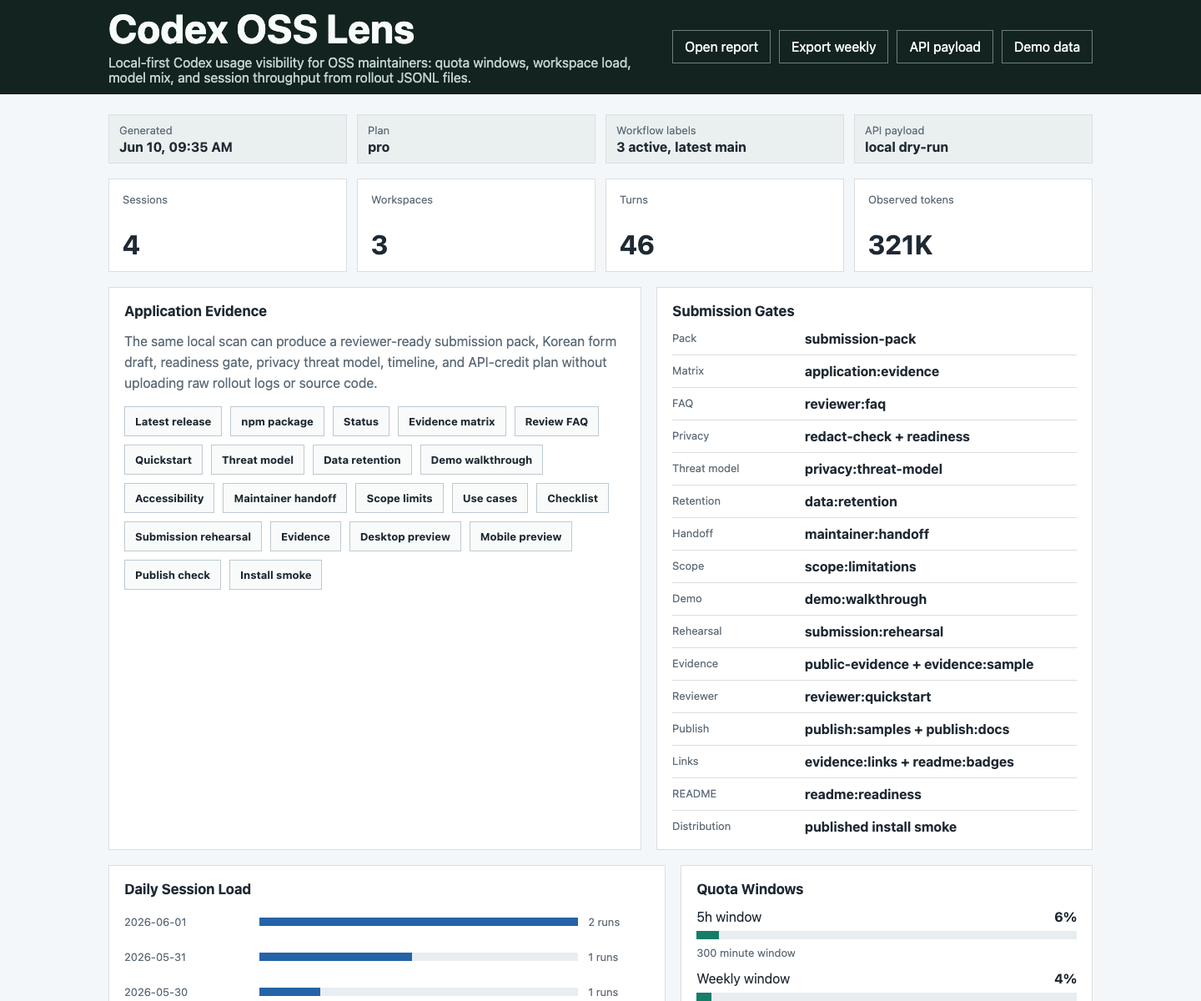
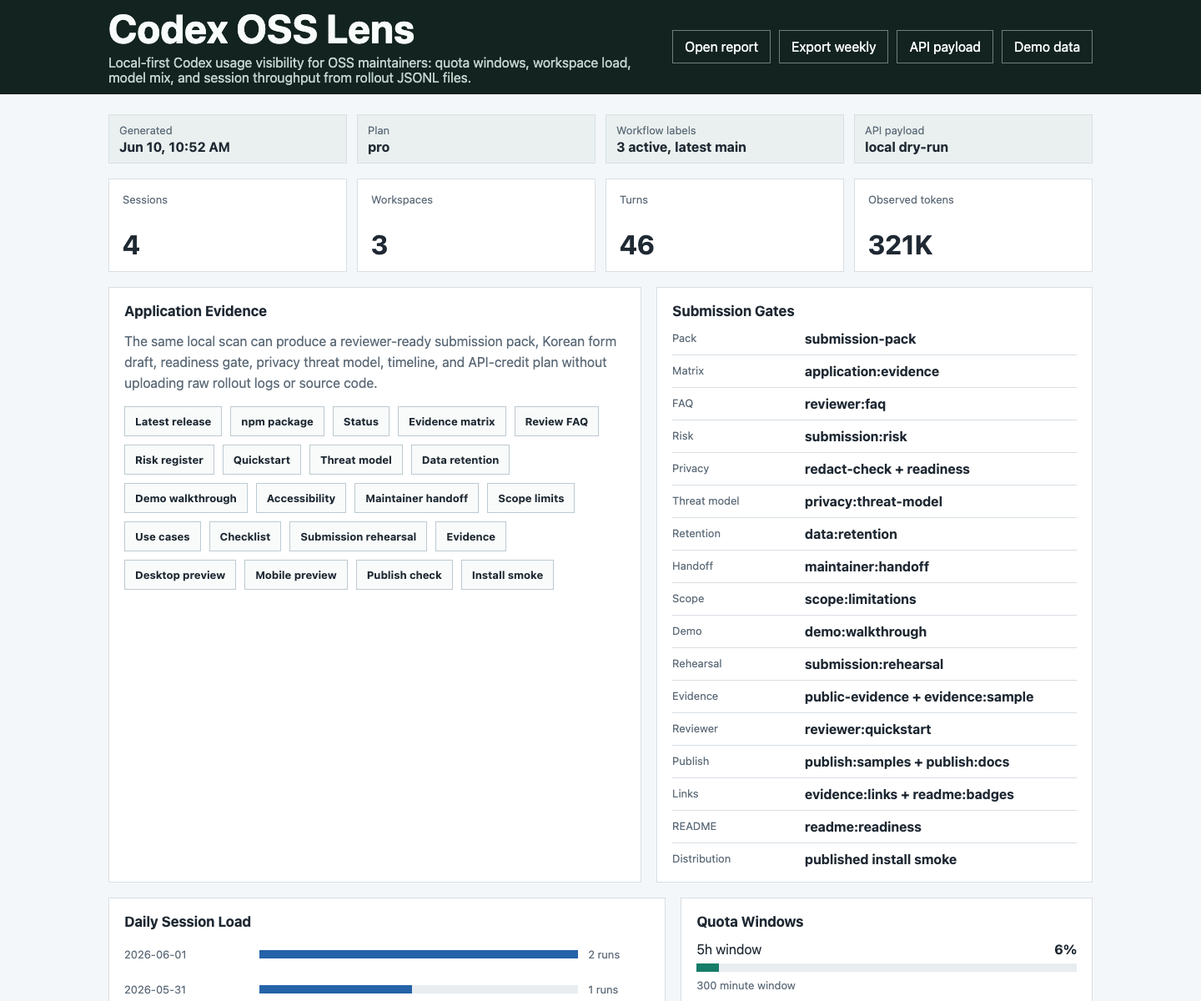
Make submission risks reviewable
Application readiness is stronger when reviewers can see the known risks instead of inferring them from scattered docs. This change adds a public submission risk register with mitigations, local gates, and submit-time stop conditions, then wires it through public evidence, form drafts, dashboard evidence, README guidance, and CI readiness checks.

Constraint: The project should acknowledge young-project, privacy, source-vs-published, manual-submit, API-scope, and link-rot risks without weakening the application narrative.
Constraint: Local 1Password SSH signing agent remains unreliable, so this automation commit is unsigned.
Rejected: Keep risk language only in the FAQ and scope docs | a dedicated register is easier for reviewers to audit and for CI to keep aligned.
Confidence: high
Scope-risk: moderate
Directive: Keep docs/submission-risk-register.md, submission:risk, public evidence links, dashboard evidence links, README guidance, and form-draft samples aligned whenever application risks, mitigations, or stop conditions change.
Tested: npm run submission:risk && npm run application:evidence && npm run dashboard:readiness && npm run evidence:sample && npm run form-draft:sample && npm run final-copy:check && npm run application:status && npm run reviewer:quickstart && npm run publish:docs && npm run readme:readiness && npm run ci:readiness && npm test && git diff --check
[…]

diff --git a/src/cli.js b/src/cli.js
@@ -182,6 +182,7 @@ async function main() {
         applicationStatusUrl: options.applicationStatusUrl,
         applicationEvidenceMatrixUrl: options.applicationEvidenceMatrixUrl,
         applicationReviewFaqUrl: options.applicationReviewFaqUrl,
+        submissionRiskRegisterUrl: options.submissionRiskRegisterUrl,
         reviewerQuickstartUrl: options.reviewerQuickstartUrl,
         releaseProvenanceUrl: options.releaseProvenanceUrl,
         adoptionPlanUrl: options.adoptionPlanUrl,
@@ -282,6 +283,7 @@ function parseArgs(args) {
     else if (arg === "--application-status-url") options.applicationStatusUrl = args[++i];
     else if (arg === "--application-evidence-matrix-url") options.applicationEvidenceMatrixUrl = args[++i];
     else if (arg === "--application-review-faq-url") options.applicationReviewFaqUrl = args[++i];
+    else if (arg === "--submission-risk-register-url") options.submissionRiskRegisterUrl = args[++i];
     else if (arg === "--reviewer-quickstart-url") options.reviewerQuickstartUrl = args[++i];
     else if (arg === "--release-provenance-url") options.releaseProvenanceUrl = args[++i];
     else if (arg === "--adoption-plan-url") options.adoptionPlanUrl = args[++i];
@@ -401,11 +403,11 @@ Usage:
   codex-oss-lens scorecard --manifest manifest.json [--readiness readiness.json] [--api-plan api-plan.json] [--timeline timeline.json] [--out scorecard.json] [--markdown scorecard.md]
   codex-oss-lens evidence-index --manifest manifest.json [--readiness readiness.json] [--api-plan api-plan.json] [--timeline timeline.json] [--scorecard scorecard.json] [--form-draft form-draft.json] [--out evidence-index.json] [--markdown evidence-index.md] [--html evidence-index.html]
   codex-oss-lens submission-pack [--codex-home ~/.codex] [--repo owner/name] [--out-dir codex-submission-pack] [--demo]
-  codex-oss-lens form-draft --manifest manifest.json [--readiness readiness.json] [--api-plan api-plan.json] [--scorecard scorecard.json] [--repo url] [--release-url url] [--npm-package url] [--roadmap-url url] [--application-status-url url] [--application-evidence-matrix-url url] [--application-review-faq-url url] [--reviewer-quickstart-url url] [--release-provenance-url url] [--adoption-plan-url url] [--maintenance-policy-url url] [--maintainer-handoff-url url] [--scope-limitations-url url] [--privacy-threat-model-url url] [--data-retention-url url] [--demo-walkthrough-url url] [--accessibility-url url] [--api-workflow-url url] [--use-cases-url url] [--final-checklist-url url] [--submission-rehearsal-url url] [--final-copy-url url] [--form-draft-sample-url url] [--public-evidence-sample-url url] [--dashboard-preview-url url] [--mobile-dashboard-preview-url url] [--publish-check-sample-url url] [--install-smoke-sample-url url] [--node-ci-url url] [--published-smoke-url url] [--out form-draft.json] [--markdown form-draft.md]
+  codex-oss-lens form-draft --manifest manifest.json [--readiness readiness.json] [--api-plan api-plan.json] [--scorecard scorecard.json] [--repo url] [--release-url url] [--npm-package url] [--roadmap-url url] [--application-status-url url] [--application-evidence-matrix-url url] [--application-review-faq-url url] [--submission-risk-register-url url] [--reviewer-quickstart-url url] [--release-provenance-url url] [--adoption-plan-url url] [--maintenance-policy-url url] [--maintainer-handoff-url url] [--scope-limitations-url url] [--privacy-threat-model-url url] [--data-retention-url url] [--demo-walkthrough-url url] [--accessibility-url url] [--api-workflow-url url] [--use-cases-url url] [--final-checklist-url url] [--submission-rehearsal-url url] [--final-copy-url url] [--form-draft-sample-url url] [--public-evidence-sample-url url] [--dashboard-preview-url url] [--mobile-dashboard-preview-url url] [--publish-check-sample-url url] [--install-smoke-sample-url url] [--node-ci-url url] [--published-smoke-url url] [--out form-draft.json] [--markdown form-draft.md]
   codex-oss-lens pack-validate <submission-pack-dir> [--min-score 75] [--out pack-validation.json] [--markdown pack-validation.md]
   codex-oss-lens publish-check [--package-json package.json] [--out publish-check.json] [--markdown publish-check.md]
   codex-oss-lens install-smoke [--package codex-oss-lens] [--version latest] [--bin codex-oss-lens] [--out install-smoke.json] [--markdown install-smoke.md]
-  codex-oss-lens public-evidence [--repo url] [--release-url url] [--npm-package url] [--roadmap-url url] [--application-status-url url] [--application-evidence-matrix-url url] [--application-review-faq-url url] [--reviewer-quickstart-url url] [--release-provenance-url url] [--adoption-plan-url url] [--maintenance-policy-url url] [--maintainer-handoff-url url] [--scope-limitations-url url] [--privacy-threat-model-url url] [--data-retention-url url] [--demo-walkthrough-url url] [--accessibility-url url] [--api-workflow-url url] [--use-cases-url url] [--final-checklist-url url] [--submission-rehearsal-url url] [--final-copy-url url] [--form-draft-sample-url url] [--public-evidence-sample-url url] [--dashboard-preview-url url] [--mobile-dashboard-preview-url url] [--publish-check-sample-url url] [--install-smoke-sample-url url] [--node-ci-url url] [--published-smoke-url url] [--out public-evidence.json] [--markdown public-evidence.md]
+  codex-oss-lens public-evidence [--repo url] [--release-url url] [--npm-package url] [--roadmap-url url] [--application-status-url url] [--application-evidence-matrix-url url] [--application-review-faq-url url] [--submission-risk-register-url url] [--reviewer-quickstart-url url] [--release-provenance-url url] [--adoption-plan-url url] [--maintenance-policy-url url] [--maintainer-handoff-url url] [--scope-limitations-url url] [--privacy-threat-model-url url] [--data-retention-url url] [--demo-walkthrough-url url] [--accessibility-url url] [--api-workflow-url url] [--use-cases-url url] [--final-checklist-url url] [--submission-rehearsal-url url] [--final-copy-url url] [--form-draft-sample-url url] [--public-evidence-sample-url url] [--dashboard-preview-url url] [--mobile-dashboard-preview-url url] [--publish-check-sample-url url] [--install-smoke-sample-url url] [--node-ci-url url] [--published-smoke-url url] [--out public-evidence.json] [--markdown public-evidence.md]
   codex-oss-lens serve [--codex-home ~/.codex] [--port 5057] [--demo]
   codex-oss-lens demo [--out report.json]
 

diff --git a/test/public-evidence.test.js b/test/public-evidence.test.js
@@ -15,6 +15,7 @@ test("builds public evidence with required links and manual fields", () => {
   assert.match(evidence.publicLinks.applicationStatusUrl, /docs\/application-status\.md$/);
   assert.match(evidence.publicLinks.applicationEvidenceMatrixUrl, /docs\/application-evidence-matrix\.md$/);
   assert.match(evidence.publicLinks.applicationReviewFaqUrl, /docs\/application-review-faq\.md$/);
+  assert.match(evidence.publicLinks.submissionRiskRegisterUrl, /docs\/submission-risk-register\.md$/);
   assert.match(evidence.publicLinks.reviewerQuickstartUrl, /docs\/reviewer-quickstart\.md$/);
   assert.match(evidence.publicLinks.releaseProvenanceUrl, /docs\/release-provenance\.md$/);
   assert.match(evidence.publicLinks.adoptionPlanUrl, /docs\/adoption-plan\.md$/);
@@ -30,6 +31,7 @@ test("builds public evidence with required links and manual fields", () => {
   assert.ok(evidence.proofPoints.some((item) => item.id === "applicationStatus"));
   assert.ok(evidence.proofPoints.some((item) => item.id === "applicationEvidenceMatrix"));
   assert.ok(evidence.proofPoints.some((item) => item.id === "applicationReviewFaq"));
+  assert.ok(evidence.proofPoints.some((item) => item.id === "submissionRiskRegister"));
   assert.ok(evidence.proofPoints.some((item) => item.id === "reviewerQuickstart"));
   assert.ok(evidence.proofPoints.some((item) => item.id === "releaseProvenance"));
   assert.ok(evidence.proofPoints.some((item) => item.id === "adoptionPlan"));
@@ -85,6 +87,8 @@ test("CLI accepts reviewer link overrides for public evidence", async () => {
     "https://github.com/example/project/blob/main/docs/application-evidence-matrix.md",
     "--application-review-faq-url",
     "https://github.com/example/project/blob/main/docs/application-review-faq.md",
+    "--submission-risk-register-url",
+    "https://github.com/example/project/blob/main/docs/submission-risk-register.md",
     "--reviewer-quickstart-url",
     "https://github.com/example/project/blob/main/docs/reviewer-quickstart.md",
     "--release-provenance-url",
@@ -139,6 +143,7 @@ test("CLI accepts reviewer link overrides for public evidence", async () => {
   assert.equal(evidence.publicLinks.applicationStatusUrl, "https://github.com/example/project/blob/main/docs/application-status.md");
   assert.equal(evidence.publicLinks.applicationEvidenceMatrixUrl, "https://github.com/example/project/blob/main/docs/application-evidence-matrix.md");
   assert.equal(evidence.publicLinks.applicationReviewFaqUrl, "https://github.com/example/project/blob/main/docs/application-review-faq.md");
+  assert.equal(evidence.publicLinks.submissionRiskRegisterUrl, "https://github.com/example/project/blob/main/docs/submission-risk-register.md");
   assert.equal(evidence.publicLinks.reviewerQuickstartUrl, "https://github.com/example/project/blob/main/docs/reviewer-quickstart.md");
   assert.equal(evidence.publicLinks.releaseProvenanceUrl, "https://github.com/example/project/blob/main/docs/release-provenance.md");
   assert.equal(evidence.publicLinks.adoptionPlanUrl, "https://github.com/example/project/blob/main/docs/adoption-plan.md");

diff --git a/scripts/check-submission-risk-register.js b/scripts/check-submission-risk-register.js
@@ -1,0 +1,55 @@
+#!/usr/bin/env node
+import { promises as fs } from "node:fs";
+
+const files = {
+  risk: await fs.readFile("docs/submission-risk-register.md", "utf8"),
+  status: await fs.readFile("docs/application-status.md", "utf8"),
+  reviewer: await fs.readFile("docs/reviewer-quickstart.md", "utf8"),
+  checklist: await fs.readFile("docs/final-submission-checklist.md", "utf8"),
+  readme: await fs.readFile("README.md", "utf8"),
+  dashboard: await fs.readFile("public/index.html", "utf8"),
+  workflow: await fs.readFile(".github/workflows/test.yml", "utf8"),
+  publishing: await fs.readFile("docs/npm-publishing.md", "utf8"),
+  publishChecklist: await fs.readFile("application/publish-checklist.md", "utf8"),
+};
+let failures = 0;
+
+requireText("risk", "# Submission Risk Register", "title");
+requireText("risk", "Young public project", "young-project risk");
+requireText("risk", "Private Codex data exposure", "privacy risk");
+requireText("risk", "Source-vs-published drift", "published-drift risk");
+requireText("risk", "Manual account-owner fields", "manual-fields risk");
+requireText("risk", "API-credit scope creep", "api-scope risk");
+requireText("risk", "Evidence link rot", "link-rot risk");
+requireText("risk", "Do not submit if any local gate above fails", "submit-time decision");
+requireText("risk", "npm run submission:risk", "self gate command");
+requireText("risk", "codex-oss-lens@latest", "latest package boundary");
+requireText("status", "Submission risk register | Ready", "application status row");
+requireText("status", "npm run submission:risk", "application status command");
+requireText("reviewer", "docs/submission-risk-register.md", "reviewer risk link");
+requireText("checklist", "docs/submission-risk-register.md", "final checklist risk link");
+requireText("checklist", "npm run submission:risk", "final checklist gate");
+requireText("readme", "docs/submission-risk-register.md", "README risk link");
+requireText("readme", "npm run submission:risk", "README risk gate");
+requireText("dashboard", "docs/submission-risk-register.md", "dashboard risk link");
+requireText("dashboard", "Risk register", "dashboard risk label");
+requireText("dashboard", "submission:risk", "dashboard risk gate");
+requireText("workflow", "npm run submission:risk", "CI risk gate");
+requireText("publishing", "npm run submission:risk", "publishing docs risk gate");
+requireText("publishChecklist", "submission:risk", "publish checklist risk gate");
+
+if (failures) {
+  console.error(`Submission risk register check failed for ${failures} requirement(s).`);
+  process.exit(1);
+}
+
+console.log("pass submissionRiskRegister");
+
+function requireText(fileKey, needle, label) {
+  if (files[fileKey].includes(needle)) {
+    console.log(`pass ${label}`);
+    return;
+  }
+  console.error(`fail missing ${label}: ${needle}`);
+  failures += 1;
+}

diff --git a/src/public-evidence.js b/src/public-evidence.js
@@ -6,6 +6,7 @@ const DEFAULTS = {
   applicationStatusUrl: "https://github.com/dbunk903/codex-oss-lens/blob/main/docs/application-status.md",
   applicationEvidenceMatrixUrl: "https://github.com/dbunk903/codex-oss-lens/blob/main/docs/application-evidence-matrix.md",
   applicationReviewFaqUrl: "https://github.com/dbunk903/codex-oss-lens/blob/main/docs/application-review-faq.md",
+  submissionRiskRegisterUrl: "https://github.com/dbunk903/codex-oss-lens/blob/main/docs/submission-risk-register.md",
   reviewerQuickstartUrl: "https://github.com/dbunk903/codex-oss-lens/blob/main/docs/reviewer-quickstart.md",
   releaseProvenanceUrl: "https://github.com/dbunk903/codex-oss-lens/blob/main/docs/release-provenance.md",
   adoptionPlanUrl: "https://github.com/dbunk903/codex-oss-lens/blob/main/docs/adoption-plan.md",
@@ -56,6 +57,7 @@ export function buildPublicEvidence(options = {}) {
       proof("applicationStatus", "Application status captures ready, source-only, and manual submit gates.", links.applicationStatusUrl),
       proof("applicationEvidenceMatrix", "Application evidence matrix maps reviewer questions to public proof and local gates.", links.applicationEvidenceMatrixUrl),
       proof("applicationReviewFaq", "Application review FAQ answers young-project, public-proof, manual-submit, privacy, package, and API-credit questions.", links.applicationReviewFaqUrl),
+      proof("submissionRiskRegister", "Submission risk register lists application risks, mitigations, and local gates.", links.submissionRiskRegisterUrl),
       proof("reviewerQuickstart", "Reviewer quickstart gives public-only verification steps.", links.reviewerQuickstartUrl),
       proof("releaseProvenance", "Release provenance ties GitHub release, npm package, CI, and privacy gates together.", links.releaseProvenanceUrl),
       proof("adoptionPlan", "Adoption plan documents public validation without asking for private Codex content.", links.adoptionPlanUrl),
@@ -98,6 +100,7 @@ function compactLinks(options) {
     ...(options.applicationStatusUrl ? { applicationStatusUrl: options.applicationStatusUrl } : {}),
     ...(options.applicationEvidenceMatrixUrl ? { applicationEvidenceMatrixUrl: options.applicationEvidenceMatrixUrl } : {}),
     ...(options.applicationReviewFaqUrl ? { applicationReviewFaqUrl: options.applicationReviewFaqUrl } : {}),
+    ...(options.submissionRiskRegisterUrl ? { submissionRiskRegisterUrl: options.submissionRiskRegisterUrl } : {}),
     ...(options.reviewerQuickstartUrl ? { reviewerQuickstartUrl: options.reviewerQuickstartUrl } : {}),
     ...(options.releaseProvenanceUrl ? { releaseProvenanceUrl: options.releaseProvenanceUrl } : {}),
     ...(options.adoptionPlanUrl ? { adoptionPlanUrl: options.adoptionPlanUrl } : {}),

diff --git a/test/form-draft.test.js b/test/form-draft.test.js
@@ -24,6 +24,7 @@ test("builds copy-ready Korean OSS support form draft", () => {
       applicationStatusUrl: "https://github.com/dbunk903/codex-oss-lens/blob/main/docs/application-status.md",
       applicationEvidenceMatrixUrl: "https://github.com/dbunk903/codex-oss-lens/blob/main/docs/application-evidence-matrix.md",
       applicationReviewFaqUrl: "https://github.com/dbunk903/codex-oss-lens/blob/main/docs/application-review-faq.md",
+      submissionRiskRegisterUrl: "https://github.com/dbunk903/codex-oss-lens/blob/main/docs/submission-risk-register.md",
       adoptionPlanUrl: "https://github.com/dbunk903/codex-oss-lens/blob/main/docs/adoption-plan.md",
       maintenancePolicyUrl: "https://github.com/dbunk903/codex-oss-lens/blob/main/docs/maintenance-policy.md",
       maintainerHandoffUrl: "https://github.com/dbunk903/codex-oss-lens/blob/main/docs/maintainer-handoff.md",
@@ -42,6 +43,7 @@ test("builds copy-ready Korean OSS support form draft", () => {
   assert.equal(draft.publicLinks.applicationStatus, "https://github.com/dbunk903/codex-oss-lens/blob/main/docs/application-status.md");
   assert.equal(draft.publicLinks.applicationEvidenceMatrix, "https://github.com/dbunk903/codex-oss-lens/blob/main/docs/application-evidence-matrix.md");
   assert.equal(draft.publicLinks.applicationReviewFaq, "https://github.com/dbunk903/codex-oss-lens/blob/main/docs/application-review-faq.md");
+  assert.equal(draft.publicLinks.submissionRiskRegister, "https://github.com/dbunk903/codex-oss-lens/blob/main/docs/submission-risk-register.md");
   assert.equal(draft.publicLinks.adoptionPlan, "https://github.com/dbunk903/codex-oss-lens/blob/main/docs/adoption-plan.md");
   assert.equal(draft.publicLinks.maintenancePolicy, "https://github.com/dbunk903/codex-oss-lens/blob/main/docs/maintenance-policy.md");
   assert.equal(draft.publicLinks.maintainerHandoff, "https://github.com/dbunk903/codex-oss-lens/blob/main/docs/maintainer-handoff.md");

diff --git a/public/index.html b/public/index.html
@@ -437,6 +437,7 @@
               <a class="link-button" href="https://github.com/dbunk903/codex-oss-lens/blob/main/docs/application-status.md">Status</a>
               <a class="link-button" href="https://github.com/dbunk903/codex-oss-lens/blob/main/docs/application-evidence-matrix.md">Evidence matrix</a>
               <a class="link-button" href="https://github.com/dbunk903/codex-oss-lens/blob/main/docs/application-review-faq.md">Review FAQ</a>
+              <a class="link-button" href="https://github.com/dbunk903/codex-oss-lens/blob/main/docs/submission-risk-register.md">Risk register</a>
               <a class="link-button" href="https://github.com/dbunk903/codex-oss-lens/blob/main/docs/reviewer-quickstart.md">Quickstart</a>
               <a class="link-button" href="https://github.com/dbunk903/codex-oss-lens/blob/main/docs/privacy-threat-model.md">Threat model</a>
               <a class="link-button" href="https://github.com/dbunk903/codex-oss-lens/blob/main/docs/data-retention.md">Data retention</a>
@@ -460,6 +461,7 @@
               <li><span class="label">Pack</span><strong>submission-pack</strong></li>
               <li><span class="label">Matrix</span><strong>application:evidence</strong></li>
               <li><span class="label">FAQ</span><strong>reviewer:faq</strong></li>
+              <li><span class="label">Risk</span><strong>submission:risk</strong></li>
               <li><span class="label">Privacy</span><strong>redact-check + readiness</strong></li>
               <li><span class="label">Threat model</span><strong>privacy:threat-model</strong></li>
               <li><span class="label">Retention</span><strong>data:retention</strong></li>

diff --git a/scripts/check-readme-readiness.js b/scripts/check-readme-readiness.js
@@ -9,6 +9,7 @@ let failures = 0;
 requireText("npm run submission:check", "one-command submission gate");
 requireText("npm run application:evidence", "application evidence matrix gate");
 requireText("npm run reviewer:faq", "application review FAQ gate");
+requireText("npm run submission:risk", "submission risk register gate");
 requireText("npm run reviewer:quickstart", "reviewer quickstart gate");
 requireText("npm run form-draft:sample", "form draft sample gate");
 requireText("npm run publish:samples", "publish samples gate");
@@ -36,6 +37,7 @@ requireText("npm run readme:badges", "README badge gate");
 requireText("docs/application-status.md", "application status link");
 requireText("docs/application-evidence-matrix.md", "application evidence matrix link");
 requireText("docs/application-review-faq.md", "application review FAQ link");
+requireText("docs/submission-risk-register.md", "submission risk register link");
 requireText("docs/reviewer-quickstart.md", "reviewer quickstart link");
 requireText("docs/final-submission-checklist.md", "final checklist link");
 requireText("docs/release-provenance.md", "release provenance link");
@@ -66,6 +68,7 @@ for (const url of [
   evidence.publicLinks.npmPackage,
   evidence.publicLinks.applicationStatusUrl,
   evidence.publicLinks.applicationReviewFaqUrl,
+  evidence.publicLinks.submissionRiskRegisterUrl,
   evidence.publicLinks.reviewerQuickstartUrl,
   evidence.publicLinks.dashboardPreviewUrl,
   evidence.publicLinks.mobileDashboardPreviewUrl,

diff --git a/scripts/check-application-status.js b/scripts/check-application-status.js
@@ -19,6 +19,7 @@ requireText("npm run submission:check", "submit-time gate command");
 requireText("npm run evidence:sample", "public evidence sample gate command");
 requireText("npm run application:evidence", "application evidence matrix gate command");
 requireText("npm run reviewer:faq", "application review FAQ gate command");
+requireText("npm run submission:risk", "submission risk register gate command");
 requireText("npm run reviewer:quickstart", "reviewer quickstart gate command");
 requireText("npm run form-draft:sample", "form draft sample gate command");
 requireText("npm run publish:samples", "publish samples gate command");
@@ -48,6 +49,7 @@ requireText("package metadata, license/support/conduct docs, and GitHub template
 requireText("Public evidence sample | Ready", "public evidence sample row");
 requireText("Application evidence matrix | Ready", "application evidence matrix row");
 requireText("Application review FAQ | Ready", "application review FAQ row");
+requireText("Submission risk register | Ready", "submission risk register row");
 requireText("Reviewer quickstart | Ready", "reviewer quickstart row");
 requireText("full reviewer link map", "form draft full link map");
 requireText("Form draft sample | Ready", "form draft sample row");

diff --git a/scripts/check-dashboard-readiness.js b/scripts/check-dashboard-readiness.js
@@ -18,6 +18,9 @@ requireText("application:evidence", "dashboard evidence matrix gate");
 requireText("docs/application-review-faq.md", "dashboard review FAQ link");
 requireText("Review FAQ", "dashboard review FAQ label");
 requireText("reviewer:faq", "dashboard review FAQ gate");
+requireText("docs/submission-risk-register.md", "dashboard risk register link");
+requireText("Risk register", "dashboard risk register label");
+requireText("submission:risk", "dashboard risk register gate");
 requireText("docs/accessibility.md", "dashboard accessibility link");
 requireText("Accessibility", "dashboard accessibility label");
 requireText("docs/data-retention.md", "dashboard data retention link");
@@ -50,6 +53,7 @@ for (const [label, url] of Object.entries({
   applicationStatusUrl: evidence.publicLinks.applicationStatusUrl,
   applicationEvidenceMatrixUrl: evidence.publicLinks.applicationEvidenceMatrixUrl,
   applicationReviewFaqUrl: evidence.publicLinks.applicationReviewFaqUrl,
+  submissionRiskRegisterUrl: evidence.publicLinks.submissionRiskRegisterUrl,
   reviewerQuickstartUrl: evidence.publicLinks.reviewerQuickstartUrl,
   privacyThreatModelUrl: evidence.publicLinks.privacyThreatModelUrl,
   maintainerHandoffUrl: evidence.publicLinks.maintainerHandoffUrl,

diff --git a/scripts/check-publishing-docs.js b/scripts/check-publishing-docs.js
@@ -9,6 +9,7 @@ let failures = 0;
 requirePublishingText("npm run submission:check", "submission gate");
 requirePublishingText("npm run application:evidence", "application evidence matrix gate");
 requirePublishingText("npm run reviewer:faq", "application review FAQ gate");
+requirePublishingText("npm run submission:risk", "submission risk register gate");
 requirePublishingText("npm run reviewer:quickstart", "reviewer quickstart gate");
 requirePublishingText("npm run publish:samples", "publish samples gate");
 requirePublishingText("npm run contrib:readiness", "contribution readiness gate");
@@ -51,6 +52,7 @@ requireChecklistText("Scheduled/manual GitHub Actions", "published smoke CI evid
 requireChecklistText("submission:check", "submission gate evidence");
 requireChecklistText("application:evidence", "application evidence matrix evidence");
 requireChecklistText("reviewer:faq", "application review FAQ evidence");
+requireChecklistText("submission:risk", "submission risk register evidence");
 requireChecklistText("publish:samples", "publish samples evidence");
 requireChecklistText("support:readiness", "support readiness evidence");
 requireChecklistText("conduct:readiness", "conduct readiness evidence");

diff --git a/src/form-draft.js b/src/form-draft.js
@@ -18,6 +18,7 @@ export function buildFormDraft({ manifest, readiness, apiPlan, scorecard, links 
       applicationStatus: links.applicationStatusUrl || "",
       applicationEvidenceMatrix: links.applicationEvidenceMatrixUrl || "",
       applicationReviewFaq: links.applicationReviewFaqUrl || "",
+      submissionRiskRegister: links.submissionRiskRegisterUrl || "",
       reviewerQuickstart: links.reviewerQuickstartUrl || "",
       releaseProvenance: links.releaseProvenanceUrl || "",
       adoptionPlan: links.adoptionPlanUrl || "",
@@ -119,6 +120,7 @@ const PUBLIC_LINK_LABELS = {
   applicationStatus: "Application status",
   applicationEvidenceMatrix: "Application evidence matrix",
   applicationReviewFaq: "Application review FAQ",
+  submissionRiskRegister: "Submission risk register",
   reviewerQuickstart: "Reviewer quickstart",
   releaseProvenance: "Release provenance",
   adoptionPlan: "Adoption plan",

diff --git a/scripts/check-application-evidence-matrix.js b/scripts/check-application-evidence-matrix.js
@@ -22,6 +22,7 @@ requireText("matrix", "Is private Codex data protected?", "privacy question");
 requireText("matrix", "Can reviewers reproduce the evidence?", "reproducibility question");
 requireText("matrix", "Is the project maintainable after submission?", "maintainability question");
 requireText("matrix", "Are limits and manual gates clear?", "manual-gate question");
+requireText("matrix", "submission risk register", "risk register proof");
 requireText("matrix", "npm run application:evidence", "self gate command");
 requireText("matrix", "codex-oss-lens@latest", "source-vs-published boundary");
 requireText("status", "Application evidence matrix | Ready", "application status row");
